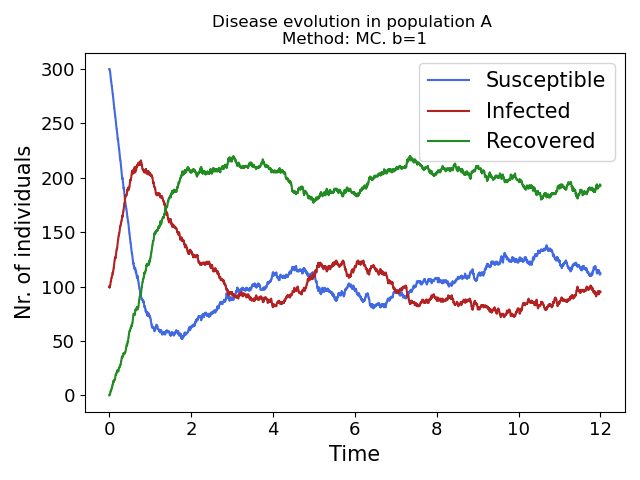
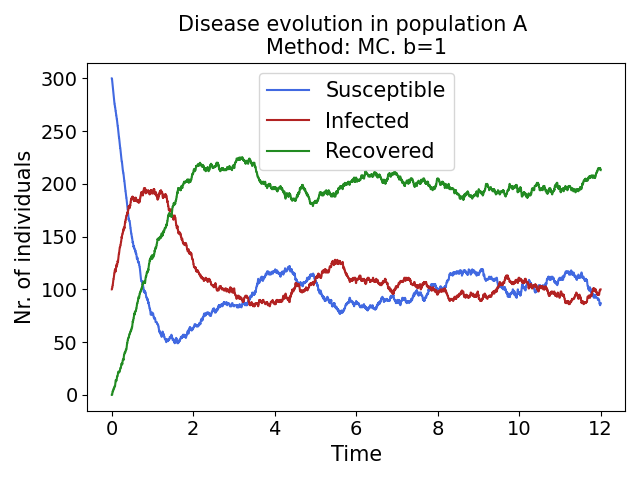
Clean-up

diff --git a/Project5/plots.py b/Project5/plots.py
@@ -35,10 +35,10 @@ def plot_SIR(time, b, S, I, R, T, pop, method, save_plot=False, folder='', tot_p
     if tot_pop:
         plt.plot(time, (S+I+R), label="Tot. population", color='#FF4500') # '#4b0082'
     plt.legend(fontsize=15)
-    plt.title('Disease evolution in population %s \nMethod: %s. b=%g' %(pop, method, b))
+    plt.title('Disease evolution in population %s \nMethod: %s. b=%g' %(pop, method, b), fontsize=15)
     plt.xlabel("Time", fontsize=15)
     plt.ylabel("Nr. of individuals", fontsize=15)
-    plt.xticks(fontsize=13);plt.yticks(fontsize=13)
+    plt.xticks(fontsize=14);plt.yticks(fontsize=14)
     plt.tight_layout()
 
     if save_plot:
